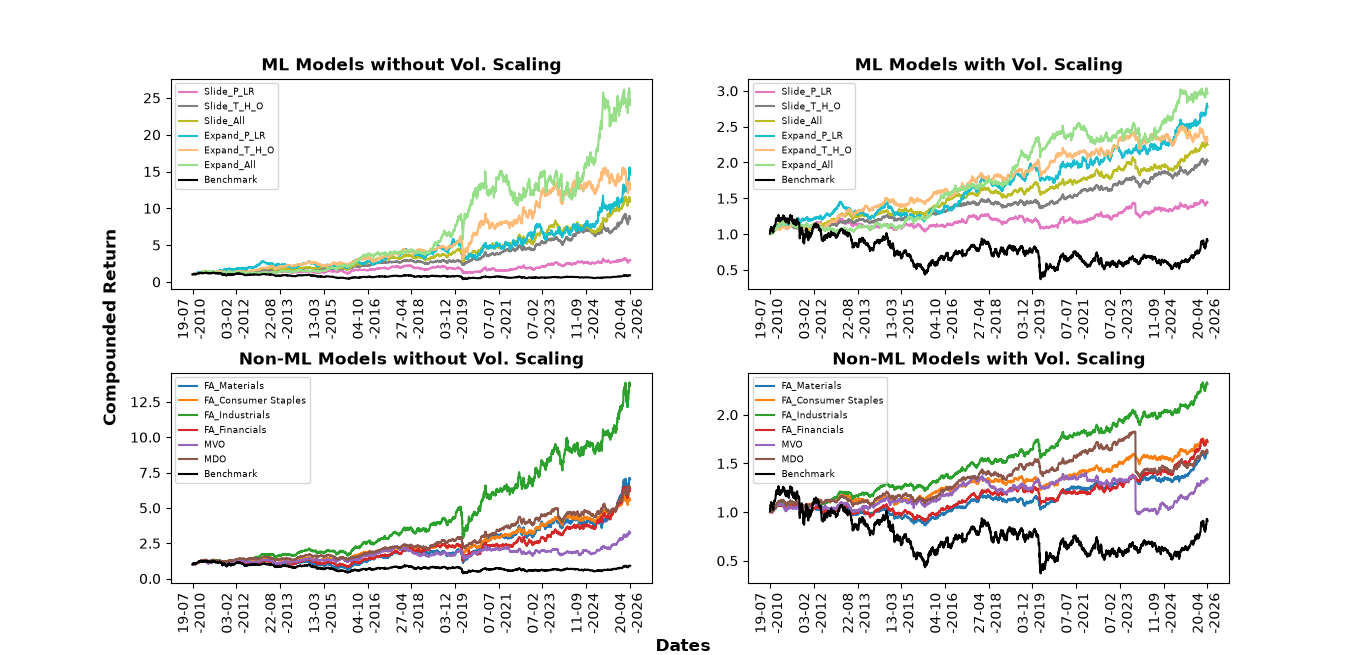
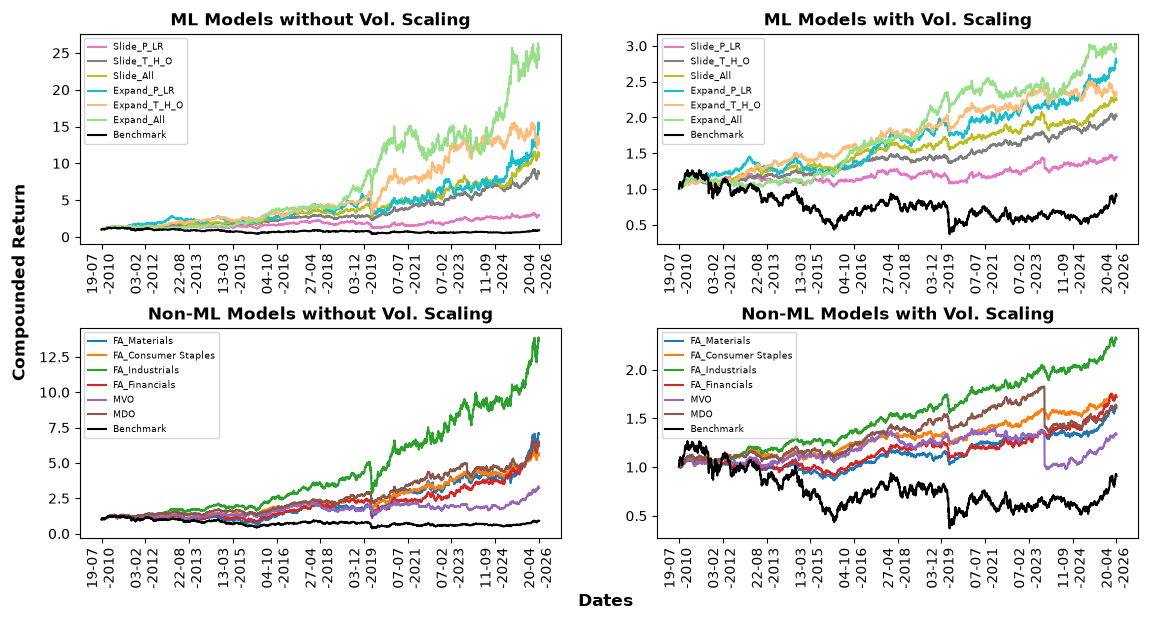
Pipeline introduccion

diff --git a/3_SegmentacionClientes/regresion.py b/3_SegmentacionClientes/regresion.py
@@ -174,7 +174,7 @@ df_resultados = pd.concat([
 df_resultados
 
 ##### Guardando el mejor modelo
-joblib.dump(gs.best_estimator_, './App/model.pkl')
+# joblib.dump(gs.best_estimator_, './App/model.pkl')
 
 #################################################################
 
@@ -401,22 +401,123 @@ for sitio in top_X_sitios:
         # Los valores del modelo y los valores actuales no son diferentes
         # I.e., el modelo es una buena representacion para predecir los numero de visitantes
 
+########################################################3
+    # Creando Pipeline #
+import pandas as pd
+from sklearn.preprocessing import LabelEncoder, OneHotEncoder
+from sklearn.pipeline import Pipeline
+
+
+#### Cargando datos
+df_2_original = pd.read_csv('Datos/FeatEng/visitantes_sitios_turisticos_original.csv')
+df_2_encoded = pd.read_csv('Datos/FeatEng/visitantes_sitios_turisticos_encoded.csv')
+
+#### Cargando el modelo y scaler
+rf = joblib.load('./App/model.pkl')
+scaler = joblib.load('./App/scaler.pkl')
+
+#### OHE
+X = df_2_original[['ID_MES', 'DEPARTAMENTO', 'SITIO_TURISTICO']]
+y = df_2_original['NUMERO_VISITANTES']
+
+### Creando encoder
+ohe = OneHotEncoder(handle_unknown='ignore', sparse_output=False)
+encoder = ohe.fit(X)
+
+### Implementacion
+enc = encoder.transform(X)
+(enc == df_2_encoded.drop(columns = 'NUMERO_VISITANTES')).sum().sum()
+(df_2_encoded.drop(columns = 'NUMERO_VISITANTES') == enc).all(axis=1).all()
+    # confirmacion que OHE: original -> encoded
+
+#### Pipe de OHE
+pip1 = Pipeline([
+    ('encoder', encoder),
+])
+
+enc2 = pip1.transform(X)
+(enc2 == enc).all(axis=1).all()
+    # Confirmacion ue trabaja
+
+
+###### Model prediccion
+#### SEleccionanado top X
+top_X = 5
+top_X_sitios = df_2_original.groupby(by='SITIO_TURISTICO', as_index=False)\
+    ['NUMERO_VISITANTES'].agg('mean')\
+    .sort_values(by='NUMERO_VISITANTES', ascending=False)\
+    ['SITIO_TURISTICO'][:top_X].values.tolist()
+
+#### Seleccionando los indices
+idxs = df_2_original[df_2_original['SITIO_TURISTICO'].isin(top_X_sitios)].index
+
+#### usando rf.predict
+df_org_idxs = df_2_original.iloc[idxs].drop(columns = 'NUMERO_VISITANTES')
+df_enc_idxs = df_2_encoded.iloc[idxs].drop(columns = 'NUMERO_VISITANTES')
+
+idxs_enc = encoder.transform(df_org_idxs)
+
+(idxs_enc == df_enc_idxs).all().all()   # Confirmacion que son iguales
+
+pred_idxs_enc = rf.predict(idxs_enc)
+pred_df_enc = rf.predict(df_enc_idxs)
+
+(pred_idxs_enc == pred_df_enc).all().all()  # son iguales
+
+#### Predicciones usando pipeline
+
+
+
+pipeline = Pipeline([
+    ('encoder', encoder),
+    ('model', rf)
+])
+
+dir(pipeline)
+
+pipeline.get_feature_names_out()
+
+new = pipeline.predict(X.iloc[idxs])
+
+
+encoder.get_feature_names_out()
+encoder.feature_names_in_
+encoder.n_features_in_
+encoded = ohe.transform(X)
+
+nuevo = ohe.transform(X.iloc[0].values.reshape(1,-1))
+
+new = ohe.transform(np.array([np.int64(3),'AMAZONAS', 'RUMIPUNKU'],dtype=object).reshape(1,-1))
+
+X.iloc[0].values.reshape(1,-1)
+
+
+df_2_encoded_tmp = df_2_encoded.drop(columns='NUMERO_VISITANTES')
+
+tmp = pd.DataFrame(
+    encoded,
+    columns=df_2_encoded_tmp.columns
+)
+
+(tmp == df_2_encoded_tmp).all(axis=1).sum()
+
+
+new = ohe.transform()
 
 
 
 
 
 
+idxs = df_2_original[df_2_original['SITIO_TURISTICO'].isin(top_X_sitios)].index
+test_tmp = tmp.iloc[idxs]
+test_df=df_2_encoded_tmp.iloc[idxs]
 
+p1 = rf.predict(test_tmp)
+p2 = rf.predict(test_df)
 
+p1_dn = scaler.inverse_transform(p1.reshape(-1,1))
+p2_dn = scaler.inverse_transform(p2.reshape(-1,1))
 
-
-
-
-
-
-
-
-
-
+p1_dn == p2_dn
 

diff --git a/2_OptimizacionPortafolio/performance.py b/2_OptimizacionPortafolio/performance.py
@@ -452,7 +452,7 @@ per_results_ML_VS = []
 per_results_ML_noVS = []
 per_results_noML_VS = []
 per_results_noML_noVS = []
-fig, axs = plt.subplots(ncols=2, nrows=2, figsize=(16,12))
+fig, axs = plt.subplots(ncols=2, nrows=2, figsize=(20,15))
 colors = ['#1f77b4','#1f77b4', "#ff7f0e", "#ff7f0e", "#2ca02c", "#2ca02c", 
           "#d62728","#d62728",  "#9467bd","#9467bd", "#8c564b", "#8c564b",
           "#e377c2","#e377c2",  "#7f7f7f", "#7f7f7f", "#bcbd22","#bcbd22",
@@ -513,15 +513,22 @@ for ax in axs.flatten():
     ax.set_xticklabels(str_common_dates, rotation=90)
     ax.xaxis.set_major_locator(MultipleLocator(400))
     ax.legend(fontsize = 6.5)
-axs[0,0].set_title('ML Models without Vol. Scaling', fontweight='bold')
-axs[0,1].set_title('ML Models with Vol. Scaling', fontweight='bold')
-axs[1,0].set_title('Non-ML Models without Vol. Scaling', fontweight='bold')
-axs[1,1].set_title('Non-ML Models with Vol. Scaling', fontweight='bold')
-fig.supxlabel('Dates', x = 0.5, y=0, fontweight='bold')
-fig.supylabel('Compounded Return', x = 0.075, y = 0.5, fontweight='bold')
+## English
+# axs[0,0].set_title('ML Models without Vol. Scaling', fontweight='bold')
+# axs[0,1].set_title('ML Models with Vol. Scaling', fontweight='bold')
+# axs[1,0].set_title('Non-ML Models without Vol. Scaling', fontweight='bold')
+# axs[1,1].set_title('Non-ML Models with Vol. Scaling', fontweight='bold')
+# fig.supxlabel('Dates', x = 0.51, y=0, fontweight='bold')
+# fig.supylabel('Compounded Return', x = 0.075, y = 0.5, fontweight='bold')
+# Espanol
+axs[0,0].set_title('ML Modelos sin Vol. Escalada', fontweight='bold')
+axs[0,1].set_title('ML Modelos con Vol. Escalada', fontweight='bold')
+axs[1,0].set_title('No-ML Modelos sin Vol. Escalada', fontweight='bold')
+axs[1,1].set_title('No-ML Modelos con Vol. Escalada', fontweight='bold')
+fig.supxlabel('Fechas', x = 0.51, y=0, fontweight='bold')
+fig.supylabel('Retorno Acumulado', x = 0.075, y = 0.5, fontweight='bold')
 plt.subplots_adjust(hspace=0.4)
 plt.show()
-
 
 
 #### Numeric visual
@@ -540,8 +547,10 @@ df_results_noML_VS = pd.DataFrame(per_results_noML_VS, columns=metrics)
 ## Setup
 fig, axs = plt.subplots(ncols=2, nrows=2, figsize = (8,8))
 dfs = [df_results_ML_noVS, df_results_ML_VS, df_results_noML_noVS, df_results_noML_VS]
-titles = ['ML Models without Vol. Scaling', 'ML Models with Vol. Scaling',
-          'Non-ML Models without Vol. Scaling', 'Non-ML Models with Vol. Scaling']
+# titles = ['ML Models without Vol. Scaling', 'ML Models with Vol. Scaling',
+#           'Non-ML Models without Vol. Scaling', 'Non-ML Models with Vol. Scaling']
+titles = ['ML Modelos sin Vol. Escalada', 'ML Modelos con Vol. Escalada',
+          'No-ML Modelos sin Vol. Escalada', 'No-ML Modelos con Vol. Escalada']
 
 ## Creating tables
 for ax, df_data, title in zip (axs.flat, dfs, titles):

diff --git a/3_SegmentacionClientes/backend.py b/3_SegmentacionClientes/backend.py
@@ -1,0 +1,55 @@
+"""
+Este archivo es el backend
+Servira las predicciones del modelo
+"""
+
+#### Import libraries
+from fastapi import FastAPI
+from pydantic import BaseModel
+import numpy as np
+import joblib, os
+
+#### tmp
+import pandas as pd
+data_path = os.path.join(
+    os.getcwd(),
+    '3_SegmentacionClientes',
+    'Datos', 
+    'FeatEng'
+)
+
+df_2_original = pd.read_csv(f'{data_path}/visitantes_sitios_turisticos_original.csv')
+df_2_encoded = pd.read_csv(f'{data_path}/visitantes_sitios_turisticos_encoded.csv')
+
+
+
+
+#### Path
+deploy_path = os.path.join(
+    os.getcwd(),
+    '3_SegmentacionClientes',
+    'App'
+)
+
+#### Read model and scaler
+modelo = joblib.load(f'{deploy_path}/model.pkl')
+scaler = joblib.load(f'{deploy_path}/scaler.pkl')
+
+#### Initialize API
+app = FastAPI(title='Model API')
+
+#### Setup data entry validation
+# class 
+
+
+
+
+
+
+
+
+
+
+
+
+
